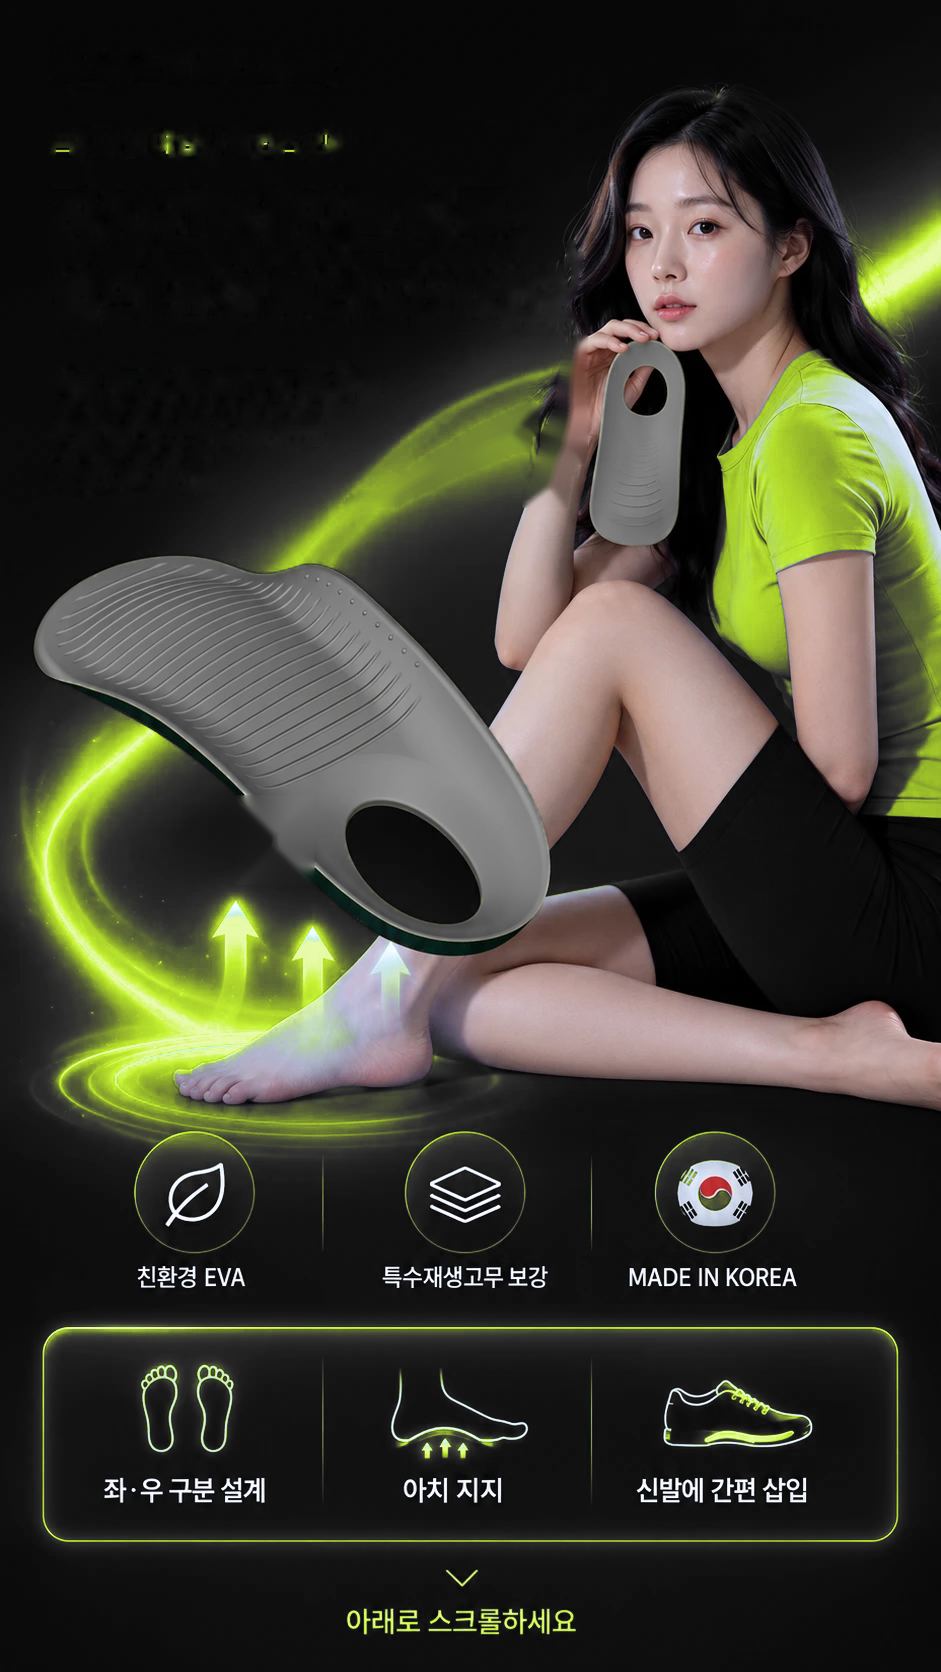
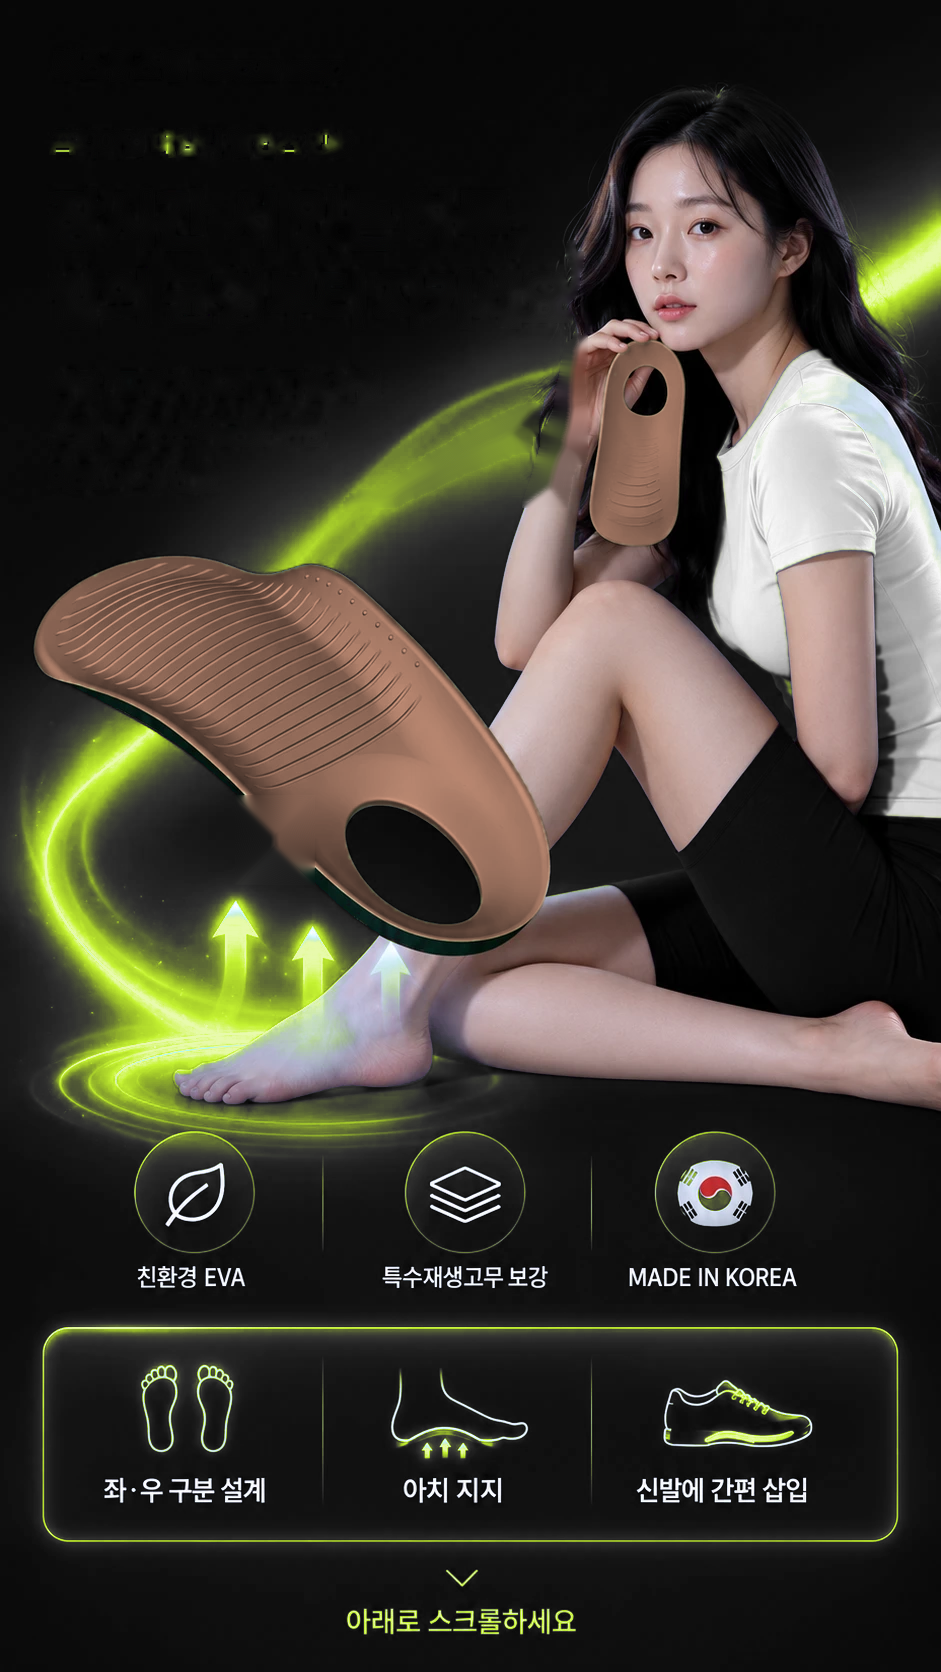
인솔 키비주얼: 모카무스 인솔·화이트 티셔츠·텍스트 축소
Claude-Session: https://claude.ai/code/session_01WbwBaiEPCZ7zKuMjGg7vqH

Changed region(s): [[0.0308, 0.311, 0.5855, 0.5598], [0.6164, 0.1866, 1.0, 0.4976]]

diff --git a/launch/rs/design/insole-hero/rs-insole-hero.html b/launch/rs/design/insole-hero/rs-insole-hero.html
@@ -4,7 +4,7 @@
 @font-face{font-family:N;font-weight:900;src:url(../fair-print/fonts/NotoSansKR-900.ttf)}
 @font-face{font-family:P;font-weight:600;src:url(../fair-print/assets/poppins-600.woff2)}
 *{margin:0;padding:0;box-sizing:border-box}
-body{width:941px;height:1672px;position:relative;overflow:hidden;background:#0B0B0B;font-family:N,sans-serif;color:#fff;letter-spacing:-.02em}
+body{width:941px;height:1420px;position:relative;overflow:hidden;background:#0B0B0B;font-family:N,sans-serif;color:#fff;letter-spacing:-.02em}
 .bg{position:absolute;inset:0;background:url(base-recolor.png) 0 0/941px 1672px no-repeat}
 .veil-t{position:absolute;left:0;top:0;width:640px;height:540px;background:radial-gradient(ellipse 120% 100% at 0% 0%,rgba(11,11,11,.85) 0%,rgba(11,11,11,.7) 55%,rgba(11,11,11,0) 100%)}
 .veil-b{position:absolute;left:0;right:0;top:1090px;bottom:0;background:linear-gradient(rgba(11,11,11,0),#0B0B0B 50px,#0B0B0B)}
@@ -13,21 +13,19 @@ body{width:941px;height:1672px;position:relative;overflow:hidden;background:#0B0
 h1{font-size:56px;font-weight:900;line-height:1.16;letter-spacing:-.04em}
 h1 em{font-style:normal;color:#C6F432}
 .sub{font-size:24px;line-height:1.6;color:#d6d6d0}
-.row1{left:60px;right:60px;top:1112px;display:grid;grid-template-columns:repeat(3,1fr)}
+.row1{left:60px;right:60px;top:1135px;display:grid;grid-template-columns:repeat(3,1fr)}
 .row1 div{display:flex;flex-direction:column;align-items:center;gap:14px;font-size:21px;font-weight:700;text-align:center;line-height:1.3}
 .row1 div+div{border-left:1px solid #333}
 .row1 i{width:120px;height:120px;border-radius:50%;border:1.5px solid #3a3a3a;display:grid;place-items:center;background:radial-gradient(circle,#1d2410,#111)}
 .box{left:44px;right:44px;top:1356px;height:190px;border:2px solid #C6F432;border-radius:22px;box-shadow:0 0 22px rgba(198,244,50,.35),inset 0 0 22px rgba(198,244,50,.12);display:grid;grid-template-columns:repeat(3,1fr);align-items:center;background:rgba(20,24,12,.6)}
 .box div{display:flex;flex-direction:column;align-items:center;gap:16px;font-size:22px;font-weight:700;text-align:center;line-height:1.3}
 .box div+div{border-left:1px solid #333}
-.fine{left:0;right:0;top:1574px;text-align:center;font-size:15px;color:#8c8c86;line-height:1.6}
+.fine{left:0;right:0;top:1325px;text-align:center;font-size:15px;color:#8c8c86;line-height:1.6}
 </style></head><body>
 <div class="bg"></div><div class="veil-t"></div><div class="veil-b"></div>
 <img class="abs" src="rs-lockup-lime.png" style="left:52px;top:44px;height:78px">
 <div class="abs eyebrow" style="left:52px;top:150px">쿼드그립 아치가득 인솔</div>
 <h1 class="abs" style="left:50px;top:190px">오후 4시,<br>발이 먼저<br><em>퇴근하고 싶을 때.</em></h1>
-<div class="abs sub" style="left:52px;top:398px">식당·카페처럼 오래 서서 일하는 분들의<br>쓰던 신발에, 한 장 더.</div>
-<div class="abs row1"><div><i><svg viewBox="0 0 64 64" width="58" height="58" fill="none" stroke="#C6F432" stroke-width="2.6" stroke-linecap="round" stroke-linejoin="round"><path d="M14 40l14-22 10 6-14 22z"/><path d="M36 44l10-14 8 5-10 14z"/><path d="M24 50l6-6"/><circle cx="44" cy="20" r="3"/><circle cx="20" cy="18" r="2"/></svg></i>목공소 우드칩<br>배합 소재</div><div><i><svg viewBox="0 0 64 64" width="58" height="58" fill="none" stroke="#C6F432" stroke-width="2.6" stroke-linecap="round" stroke-linejoin="round"><path d="M20 12c-6 8-8 20-4 30 3 8 9 12 16 12s13-4 16-12c4-10 2-22-4-30"/><ellipse cx="32" cy="40" rx="7" ry="9"/></svg></i>뒤꿈치를 감싸는<br>링 컵 구조</div><div><i><svg viewBox="0 0 64 64" width="58" height="58" fill="none" stroke="#C6F432" stroke-width="2.6" stroke-linecap="round" stroke-linejoin="round"><rect x="10" y="16" width="44" height="32" rx="4"/><circle cx="32" cy="32" r="7"/><path d="M15 21l4 3M15 43l4-3M49 21l-4 3M49 43l-4-3"/></svg></i>MADE IN KOREA<br><span style="font-weight:400;color:#9a9a94;font-size:17px">국내 제조</span></div></div>
-<div class="abs box"><div><svg viewBox="0 0 64 64" width="58" height="58" fill="none" stroke="#C6F432" stroke-width="2.6" stroke-linecap="round" stroke-linejoin="round"><path d="M8 46h48"/><path d="M10 46c6-2 10-10 22-10s16 8 22 10"/><path d="M26 30v-8M32 28v-10M38 30v-8"/><path d="M23 25l3-3 3 3M29 21l3-3 3 3M35 25l3-3 3 3"/></svg>아치 라인을<br>따라 채운 형태</div><div><svg viewBox="0 0 64 64" width="58" height="58" fill="none" stroke="#C6F432" stroke-width="2.6" stroke-linecap="round" stroke-linejoin="round"><path d="M12 40c4-6 14-8 22-8s14 2 18 6"/><path d="M12 46c4-6 14-8 22-8s14 2 18 6"/><path d="M40 20v10M35 25l5 5 5-5"/></svg>쓰던 깔창 밑에<br>한 장 더</div><div><svg viewBox="0 0 64 64" width="58" height="58" fill="none" stroke="#C6F432" stroke-width="2.6" stroke-linecap="round" stroke-linejoin="round"><path d="M8 42c0-8 2-16 6-20l8 6c4 3 10 4 16 5l14 3c3 1 5 3 5 6v2H8z"/><path d="M8 46h49"/><path d="M14 38h36" stroke-dasharray="3 3"/></svg>가지고 계신<br>신발에 쏙</div></div>
-<div class="abs fine">이미지는 AI로 연출한 장면입니다 · 실제 제품 색상은 그레이 · 의료기기가 아닙니다<br><b style="color:#C6F432;font-size:17px">RHARA SHOE 라라슈 · 2026.11.11 OPEN</b></div>
+<div class="abs row1"><div><i><svg viewBox="0 0 64 64" width="58" height="58" fill="none" stroke="#C6F432" stroke-width="2.6" stroke-linecap="round" stroke-linejoin="round"><path d="M14 40l14-22 10 6-14 22z"/><path d="M36 44l10-14 8 5-10 14z"/><path d="M24 50l6-6"/><circle cx="44" cy="20" r="3"/><circle cx="20" cy="18" r="2"/></svg></i>우드칩 배합</div><div><i><svg viewBox="0 0 64 64" width="58" height="58" fill="none" stroke="#C6F432" stroke-width="2.6" stroke-linecap="round" stroke-linejoin="round"><path d="M20 12c-6 8-8 20-4 30 3 8 9 12 16 12s13-4 16-12c4-10 2-22-4-30"/><ellipse cx="32" cy="40" rx="7" ry="9"/></svg></i>뒤꿈치 링 컵</div><div><i><svg viewBox="0 0 64 64" width="58" height="58" fill="none" stroke="#C6F432" stroke-width="2.6" stroke-linecap="round" stroke-linejoin="round"><rect x="10" y="16" width="44" height="32" rx="4"/><circle cx="32" cy="32" r="7"/><path d="M15 21l4 3M15 43l4-3M49 21l-4 3M49 43l-4-3"/></svg></i>MADE IN KOREA</div></div>
+<div class="abs fine">AI 연출 이미지 · 의료기기 아님<br><b style="color:#C6F432;font-size:17px">RHARA SHOE 라라슈 · 2026.11.11 OPEN</b></div>
 </body></html>

diff --git a/launch/rs/design/insole-hero/build.py b/launch/rs/design/insole-hero/build.py
@@ -1,5 +1,5 @@
 """라라슈 아치가득 인솔 키비주얼 (레스큐스텝 AI 시안 → 라라슈 버전) → rs-insole-hero.html → node render → PNG
-카피 가드: 교정·통증·피로감소·균형 효능 표현 금지 / 의료기기 아님 / AI 연출 고지 / 실제 색상 그레이"""
+카피 가드: 교정·통증·피로감소·균형 효능 표현 금지 / 의료기기 아님 / AI 연출 고지 · 텍스트 최소화(10/16 대표 지시)"""
 import os
 HERE = os.path.dirname(os.path.abspath(__file__))
 LIME, INK = '#C6F432', '#0B0B0B'
@@ -16,7 +16,7 @@ html = f'''<!doctype html><html lang="ko"><head><meta charset="utf-8"><style>
 @font-face{{font-family:N;font-weight:900;src:url(../fair-print/fonts/NotoSansKR-900.ttf)}}
 @font-face{{font-family:P;font-weight:600;src:url(../fair-print/assets/poppins-600.woff2)}}
 *{{margin:0;padding:0;box-sizing:border-box}}
-body{{width:941px;height:1672px;position:relative;overflow:hidden;background:{INK};font-family:N,sans-serif;color:#fff;letter-spacing:-.02em}}
+body{{width:941px;height:1420px;position:relative;overflow:hidden;background:{INK};font-family:N,sans-serif;color:#fff;letter-spacing:-.02em}}
 .bg{{position:absolute;inset:0;background:url(base-recolor.png) 0 0/941px 1672px no-repeat}}
 .veil-t{{position:absolute;left:0;top:0;width:640px;height:540px;background:radial-gradient(ellipse 120% 100% at 0% 0%,rgba(11,11,11,.85) 0%,rgba(11,11,11,.7) 55%,rgba(11,11,11,0) 100%)}}
 .veil-b{{position:absolute;left:0;right:0;top:1090px;bottom:0;background:linear-gradient(rgba(11,11,11,0),{INK} 50px,{INK})}}
@@ -25,22 +25,20 @@ body{{width:941px;height:1672px;position:relative;overflow:hidden;background:{IN
 h1{{font-size:56px;font-weight:900;line-height:1.16;letter-spacing:-.04em}}
 h1 em{{font-style:normal;color:{LIME}}}
 .sub{{font-size:24px;line-height:1.6;color:#d6d6d0}}
-.row1{{left:60px;right:60px;top:1112px;display:grid;grid-template-columns:repeat(3,1fr)}}
+.row1{{left:60px;right:60px;top:1135px;display:grid;grid-template-columns:repeat(3,1fr)}}
 .row1 div{{display:flex;flex-direction:column;align-items:center;gap:14px;font-size:21px;font-weight:700;text-align:center;line-height:1.3}}
 .row1 div+div{{border-left:1px solid #333}}
 .row1 i{{width:120px;height:120px;border-radius:50%;border:1.5px solid #3a3a3a;display:grid;place-items:center;background:radial-gradient(circle,#1d2410,#111)}}
 .box{{left:44px;right:44px;top:1356px;height:190px;border:2px solid {LIME};border-radius:22px;box-shadow:0 0 22px rgba(198,244,50,.35),inset 0 0 22px rgba(198,244,50,.12);display:grid;grid-template-columns:repeat(3,1fr);align-items:center;background:rgba(20,24,12,.6)}}
 .box div{{display:flex;flex-direction:column;align-items:center;gap:16px;font-size:22px;font-weight:700;text-align:center;line-height:1.3}}
 .box div+div{{border-left:1px solid #333}}
-.fine{{left:0;right:0;top:1574px;text-align:center;font-size:15px;color:#8c8c86;line-height:1.6}}
+.fine{{left:0;right:0;top:1325px;text-align:center;font-size:15px;color:#8c8c86;line-height:1.6}}
 </style></head><body>
 <div class="bg"></div><div class="veil-t"></div><div class="veil-b"></div>
 <img class="abs" src="rs-lockup-lime.png" style="left:52px;top:44px;height:78px">
 <div class="abs eyebrow" style="left:52px;top:150px">쿼드그립 아치가득 인솔</div>
 <h1 class="abs" style="left:50px;top:190px">오후 4시,<br>발이 먼저<br><em>퇴근하고 싶을 때.</em></h1>
-<div class="abs sub" style="left:52px;top:398px">식당·카페처럼 오래 서서 일하는 분들의<br>쓰던 신발에, 한 장 더.</div>
-<div class="abs row1"><div><i>{WOOD}</i>목공소 우드칩<br>배합 소재</div><div><i>{RING}</i>뒤꿈치를 감싸는<br>링 컵 구조</div><div><i>{KR}</i>MADE IN KOREA<br><span style="font-weight:400;color:#9a9a94;font-size:17px">국내 제조</span></div></div>
-<div class="abs box"><div>{ARCH}아치 라인을<br>따라 채운 형태</div><div>{STACK}쓰던 깔창 밑에<br>한 장 더</div><div>{SHOE}가지고 계신<br>신발에 쏙</div></div>
-<div class="abs fine">이미지는 AI로 연출한 장면입니다 · 실제 제품 색상은 그레이 · 의료기기가 아닙니다<br><b style="color:{LIME};font-size:17px">RHARA SHOE 라라슈 · 2026.11.11 OPEN</b></div>
+<div class="abs row1"><div><i>{WOOD}</i>우드칩 배합</div><div><i>{RING}</i>뒤꿈치 링 컵</div><div><i>{KR}</i>MADE IN KOREA</div></div>
+<div class="abs fine">AI 연출 이미지 · 의료기기 아님<br><b style="color:{LIME};font-size:17px">RHARA SHOE 라라슈 · 2026.11.11 OPEN</b></div>
 </body></html>'''
 open(os.path.join(HERE, 'rs-insole-hero.html'), 'w').write(html); print('ok')

diff --git a/launch/rs/design/insole-hero/recolor.py b/launch/rs/design/insole-hero/recolor.py
@@ -1,5 +1,5 @@
 """레스큐스텝 AI 키비주얼(src-rescuestep-ai.webp) → 라라슈 톤 base.png
-블루 글로우→라임(부드러운 가중치, 밝기 보존), 남색 배경→잉크 블랙, 베이지 인솔→실제 제품 그레이"""
+블루 글로우→라임(부드러운 가중치, 밝기 보존), 남색 배경→잉크 블랙, 베이지 인솔→모카무스, 블루 티셔츠→화이트"""
 import os, numpy as np, cv2
 HERE = os.path.dirname(os.path.abspath(__file__))
 im = cv2.imread(os.path.join(HERE, 'src-rescuestep-ai.webp')).astype(np.float32) / 255; h, w = im.shape[:2]
@@ -13,13 +13,25 @@ L = V[..., None]
 neutral = np.repeat(L * .55, 3, 2)
 tinted = lime * np.minimum(1, L * 1.15) + ss(V, .85, 1)[..., None] * (1 - lime) * .6
 target = neutral * (1 - t[..., None]) + tinted * t[..., None]
+# 모델 티셔츠(원본 블루)는 라임 대신 화이트로 — 대표 지시 10/16
+zone_s = np.zeros((h, w), bool); zone_s[335:840, 600:941] = True
+cand = (zone_s & (blueness > .3) & (V > .32)).astype(np.uint8)
+n, lab, st, _ = cv2.connectedComponentsWithStats(cand, 8)
+big = lab == (1 + np.argmax(st[1:, cv2.CC_STAT_AREA]))                  # 가장 큰 덩어리 = 티셔츠
+big = cv2.morphologyEx(big.astype(np.uint8), cv2.MORPH_CLOSE, np.ones((9, 9), np.uint8))
+shirt = cv2.GaussianBlur(big.astype(np.float32), (7, 7), 0) * np.clip(blueness * 1.5, 0, 1)
+white = np.repeat(np.clip(0.30 + 0.78 * V, 0, .97)[..., None], 3, 2)
 out = im * (1 - blueness[..., None]) + target * blueness[..., None]
+out = out * (1 - shirt[..., None]) + white * shirt[..., None]
 # 베이지 인솔 → 그레이 (인솔 영역 안, 피부 제외)
 zone = np.zeros((h, w), np.float32); zone[530:975, 15:575] = 1; zone[325:560, 578:705] = 1
 beige = zone * ss(H, 30, 40) * (1 - ss(H, 62, 72)) * ss(S, .06, .16) * ss(V, .25, .4)
 beige = cv2.GaussianBlur(beige, (5, 5), 0)
-gray = np.repeat((cv2.cvtColor(im, cv2.COLOR_BGR2GRAY) * .62 + .05)[..., None], 3, 2)
-out = out * (1 - beige[..., None]) + gray * beige[..., None]
+# 인솔 → 모카무스 (Pantone 17-1230 Mocha Mousse ≈ #A47864), 원본 명암 유지
+MOCHA = np.array([0x64, 0x78, 0xA4], np.float32) / 255     # BGR
+g = cv2.cvtColor(im, cv2.COLOR_BGR2GRAY); g = g / max(1e-3, float(np.median(g[beige > .5])))
+mocha = np.clip(MOCHA * (g[..., None] ** 1.15) * .86, 0, 1)
+out = out * (1 - beige[..., None]) + mocha * beige[..., None]
 o8 = np.clip(out * 255, 0, 255).astype(np.uint8)
 m = np.zeros((h, w), np.uint8); m[795:885, 235:315] = 255                      # 인솔 측면 핑크 각인(원 브랜드) 제거
 # 원본 문구(레스큐스텝 로고·헤드라인·본문) 지우기: 좌상단 영역의 흰 글자 + 하늘색 글자

diff --git a/launch/rs/log.md b/launch/rs/log.md
@@ -210,3 +210,4 @@
 - `design/insole-hero/`: 원본 AI 이미지 보존(src-rescuestep-ai.webp) → recolor.py(블루→라임, 남색→잉크, 베이지 인솔→실제 그레이, 원 브랜드 문구·각인 제거) → build.py/render.mjs → `라라슈_인솔_키비주얼.png`.
 - 카피 교체: "발의 균형부터 지키세요"(효능 암시) ✗ → "오후 4시, 발이 먼저 퇴근하고 싶을 때." / "친환경 EVA·특수재생고무 보강"(인솔 소재 아님) ✗ → 목공소 우드칩 배합 소재 / "아치 지지·좌우 구분" ✗ → 아치 라인을 따라 채운 형태·쓰던 깔창 밑에 한 장 더.
 - 하단 고지: AI 연출 · 실제 색상 그레이 · 의료기기 아님.
+- 10/16 수정: 인솔 색상 → 모카무스(#A47864 계열), 모델 티셔츠 → 화이트, 텍스트 축소(서브카피·하단 박스 삭제, 아이콘 3개만: 우드칩 배합 / 뒤꿈치 링 컵 / MADE IN KOREA), 고지 "AI 연출 이미지 · 의료기기 아님".
